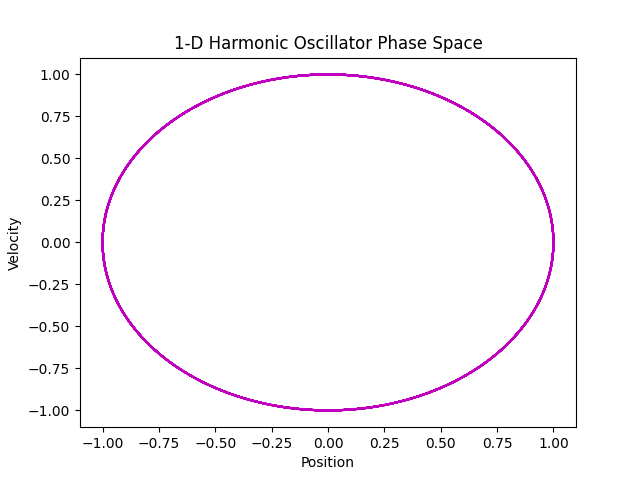
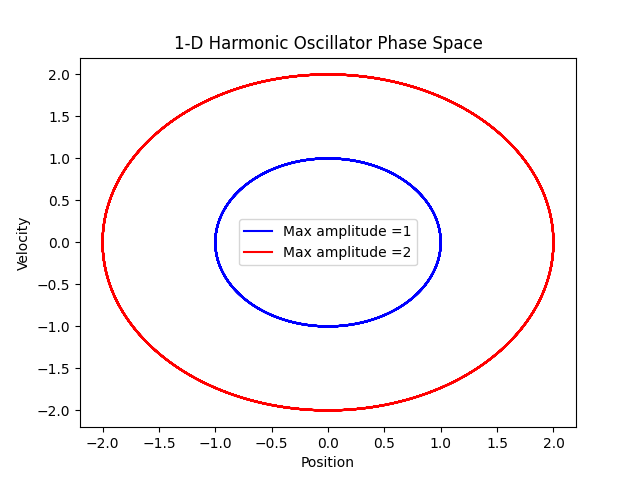
finished logarithmic mass graph, updated oscillator phase space and x vs. t graphs to include other amplitudes. Comment everything and re-read questions to ensure everything addressed.

diff --git a/PS-9/Problem1/prob1.py b/PS-9/Problem1/prob1.py
@@ -41,23 +41,29 @@ def harmonic_osc(state):
     v_prime = -x #omega = 1.
     return np.array([x_prime,v_prime], float)
 
+Hposition_1 = xv_evolution(1,0,harmonic_osc)[0]
+Hposition_2 = xv_evolution(2,0,harmonic_osc)[0]
+Hvelocity_1 = xv_evolution(1,0,harmonic_osc)[1]
+Hvelocity_2 = xv_evolution(2,0,harmonic_osc)[1]
 
 #Plotting harmonic oscillator amplitudes:
 plt.figure()
-plt.title('Simple 1-D Harmonic Oscillator')
+plt.title('1-D Harmonic Oscillator')
 plt.xlabel('Time')
 plt.ylabel('Position')
-plt.plot(t, xv_evolution(1,0,harmonic_osc)[0], color = 'b', label = 'Max amplitude = 1')
-plt.plot(t, xv_evolution(2,0,harmonic_osc)[0], color = 'r', label = 'Max amplitude = 2')
+plt.plot(t, Hposition_1, color = 'b', label = 'Max amplitude = 1')
+plt.plot(t, Hposition_2, color = 'r', label = 'Max amplitude = 2')
 plt.legend()
-plt.savefig('Harmonic_Oscillator')
+plt.savefig('Harmonic_Oscillator_Amp')
 
 #Plotting harmonic oscillator phase space:
 plt.figure()
 plt.title('1-D Harmonic Oscillator Phase Space')
 plt.xlabel('Position')
 plt.ylabel('Velocity')
-plt.plot(xv_evolution(1,0,harmonic_osc)[0], xv_evolution(1,0,harmonic_osc)[1], color = 'm')
+plt.plot(Hposition_1, Hvelocity_1, color = 'b', label = 'Max amplitude =1')
+plt.plot(Hposition_2, Hvelocity_2, color = 'r', label = 'Max amplitude =2')
+plt.legend()
 plt.savefig('Harmonic_Oscillator_PhaseSpace')
 #-------------------------------------------------------------------------------------------------
 
@@ -71,24 +77,43 @@ def anharmonic_osc(state):
     v_prime = -x**3 #omega = 1.
     return np.array([x_prime,v_prime], float)
 
+Aposition_1 = xv_evolution(1,0,anharmonic_osc)[0]
+Aposition_2 = xv_evolution(2,0,anharmonic_osc)[0]
+Aposition_3 = xv_evolution(3,0,anharmonic_osc)[0]
+Avelocity_1 = xv_evolution(1,0,anharmonic_osc)[1]
+Avelocity_2 = xv_evolution(2,0,anharmonic_osc)[1]
+Avelocity_3 = xv_evolution(3,0,anharmonic_osc)[1]
 
 #Plotting anharmonic oscillator amplitudes:
 plt.figure()
 plt.title('1-D Anharmonic Oscillator')
 plt.xlabel('Time')
+plt.xlim(0,30)
 plt.ylabel('Position')
-plt.plot(t, xv_evolution(1,0,anharmonic_osc)[0], color = 'b', label = 'Max amplitude = 1')
-plt.plot(t, xv_evolution(2,0,anharmonic_osc)[0], color = 'r', label = 'Max amplitude = 2')
-plt.plot(t, xv_evolution(0.5,0,anharmonic_osc)[0], color = 'm', label = 'Max amplitude = 0.5')
+plt.plot(t, Aposition_1, color = 'b', label = 'Max amplitude = 1')
+plt.plot(t, Aposition_2, color = 'r', label = 'Max amplitude = 2')
+plt.plot(t, Aposition_3, color = 'm', label = 'Max amplitude = 3')
 plt.legend()
-plt.savefig('Anharmonic_Oscillator')
+plt.savefig('Anharmonic_Oscillator_Amp')
+
+
+#Plotting anharmonic oscillator phase space:
+plt.figure()
+plt.title('1-D Anharmonic Oscillator')
+plt.xlabel('Position')
+plt.ylabel('Velocity')
+plt.plot(Aposition_1, Avelocity_1, color = 'b', label = 'Max amplitude = 1')
+plt.plot(Aposition_2, Avelocity_2, color = 'r', label = 'Max amplitude = 2')
+plt.plot(Aposition_3, Avelocity_3, color = 'm', label = 'Max amplitude = 3')
+plt.legend()
+plt.savefig('Anharmonic_Oscillator_PhaseSpace')
 #------------------------------------------------------------------------------------------------
 
 
 
 #New time parameters for part e)
 t_0 = 0
-t_f = 20
+t_f = 40
 N = 10000
 delta_t = (t_f - t_0)/N
 t = np.arange(t_0, t_f, delta_t)
@@ -129,7 +154,7 @@ plt.plot(Pol_solver(1,0,1)[0], Pol_solver(1,0,1)[1], color = 'b', label=r'$\mu =
 plt.plot(Pol_solver(1,0,2)[0], Pol_solver(1,0,2)[1], color = 'g', label=r'$\mu = 2$')
 plt.plot(Pol_solver(1,0,4)[0], Pol_solver(1,0,4)[1], color = 'm', label=r'$\mu = 4$')
 plt.legend()
-plt.savefig('Pol_Oscillator')
+plt.savefig('Pol_Oscillator_mu')
 #-------------------------------------------------------------------------------------------------
 
 

diff --git a/PS-9/Problem2/prob2.py b/PS-9/Problem2/prob2.py
@@ -1,5 +1,6 @@
 import numpy as np
 import matplotlib.pyplot as plt
+from scipy.optimize import curve_fit
 
 #Constant coefficients:
 R = 0.08 #[m]
@@ -11,8 +12,8 @@ theta = np.pi/6 #[radians -> 30 degrees] (Counter-clockwise with respect to the 
 
 #Arbitrary time parameters:
 t_0 = 0
-t_f = 7 #[s]
-N = 100 #Number of time steps.
+t_f = 20 #[s]
+N = 1000 #Number of time steps.
 delta_t = (t_f - t_0)/N
 t = np.arange(t_0, t_f, delta_t)
 #------------------------------------------------------------------------------------------------
@@ -39,15 +40,15 @@ def cannonball(motion, m):
 
 
 def trajectory(m):
-    x_array = []
-    y_array = []
+    x_array = np.array([])
+    y_array = np.array([])
     Vx_0 = V_0*np.cos(theta)
     Vy_0 = V_0*np.sin(theta)
     motion = np.array([0,0,Vx_0,Vy_0], float) #Initializing x,y,Vx,Vy state array.
 
     for t_p in t:
-        x_array.append(motion[0])
-        y_array.append(motion[1])
+        x_array = np.append(x_array, motion[0])
+        y_array = np.append(y_array, motion[1])
         #Runge-Kutta 4th Order implimentation:
         #Application of RK4 in these Problems don't need normal time manipulation because
         #none of the equations are explicitly time-dependent.
@@ -65,6 +66,7 @@ def trajectory(m):
 plt.figure()
 plt.subplot()
 plt.title('Mass Effect on Cannonball Trajectory')
+plt.xlim(0,600)
 plt.ylim(-1,60)
 plt.xlabel('X Position [meters]')
 plt.ylabel('Y Position [meters]')
@@ -80,25 +82,19 @@ plt.figure()
 plt.title('Mass Effect on Cannonball Trajectory')
 plt.xlabel('Cannonball Mass [kg]')
 plt.ylabel('Maximum Horizontal Displacement [meters]')
+plt.ylim(0,1000)
 
-zero = 1
-m_var = np.arange(1, 10000, 100)
-mass_values = []
-x_max_values = []
-
+m_var = np.arange(1, 80, 2)
+mass_values = np.array([])  # Explicitly initialized as a NumPy array
+x_max_values = np.array([])  # Explicitly initialized as a NumPy array
 for mass in m_var:
-    y_array = trajectory(mass)[1]  # Extract the y-array (vertical positions)
-    for i in range(10, len(y_array) - 10):  # Loop through the y_array to find where y = 0
-        if np.abs(y_array[i]) < zero:  # When y reaches 0 (or close to 0)
-            x_max_index = i  # Store the index where y = 0
-            mass_values.append(mass)  # Add mass to the list
-            x_max_values.append(trajectory(mass)[0][x_max_index])  # Add the corresponding x value
-            print(mass_values, x_max_values)
-        else:
+    mass_values = np.append(mass_values, mass)  # Append mass value
+    x_array, y_array = trajectory(mass)  # Compute trajectory
+    for i in range(1, len(y_array)):  # Detect zero crossing
+        if y_array[i - 1] > 0 and y_array[i] <= 0:
+            x_max_index = i
+            x_max_values = np.append(x_max_values, x_array[x_max_index])  # Append x value
             break
 
-plt.scatter(mass_values, x_max_values, color='m', label='Max Horizontal Displacement')
-plt.legend()
-
+plt.scatter(mass_values, x_max_values, s=12, color='m')
 plt.savefig('Mass_Effect2')
-
